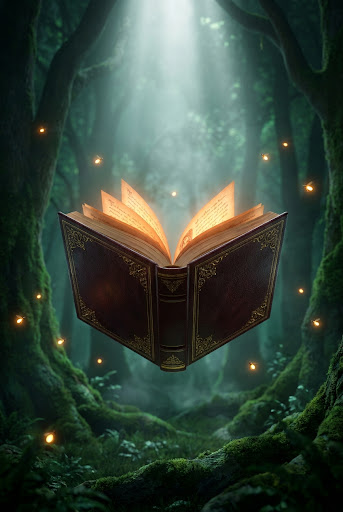
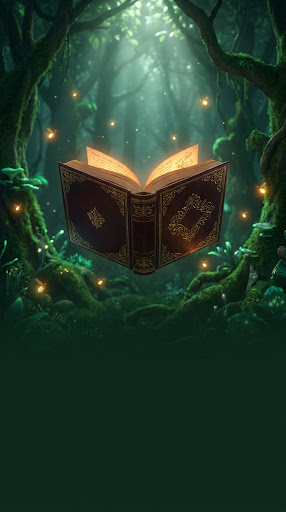
auto-sync 2026-05-16 07:54

diff --git a/app/page.tsx b/app/page.tsx
@@ -686,24 +686,95 @@ function LibraryScreen({saved,onOpen,onDelete}:{saved:SavedStory[];onOpen:(s:Sav
 }
 
 // ── Loading screen ────────────────────────────────────────────────────────────
-function LoadingScreen() {
+function LoadingScreen({ childName }: { childName?: string }) {
+  const [progress, setProgress] = useState(0)
+
+  useEffect(() => {
+    const totalMs = 28000, stepMs = 150
+    let elapsed = 0
+    const timer = setInterval(() => {
+      elapsed += stepMs
+      const t = Math.min(elapsed / totalMs, 1)
+      const eased = t < 0.5 ? 2*t*t : 1 - Math.pow(-2*t+2, 2)/2
+      setProgress(Math.min(Math.round(eased * 90), 90))
+      if (t >= 1) clearInterval(timer)
+    }, stepMs)
+    return () => clearInterval(timer)
+  }, [])
+
+  const activeStep = progress < 33 ? 0 : progress < 66 ? 1 : 2
+  const steps = ['Придумываем героя', 'Плетём сюжет', 'Рисуем картинки']
+  const fireflies = [
+    {top:'10%',left:'7%', w:3,delay:'0s',  dur:'9s' },
+    {top:'22%',left:'83%',w:4,delay:'1.5s',dur:'11s'},
+    {top:'38%',left:'15%',w:3,delay:'3s',  dur:'8s' },
+    {top:'30%',left:'70%',w:3,delay:'0.8s',dur:'13s'},
+    {top:'15%',left:'52%',w:2,delay:'2.2s',dur:'10s'},
+    {top:'60%',left:'88%',w:3,delay:'4s',  dur:'12s'},
+    {top:'73%',left:'28%',w:2,delay:'1.2s',dur:'9s' },
+    {top:'82%',left:'62%',w:3,delay:'5s',  dur:'10s'},
+  ]
+
   return (
-    <div className="max-w-2xl mx-auto px-4 py-16 pb-28 md:pb-16">
-      <div className="bg-white rounded-3xl p-16 text-center card-shadow">
-        <div className="relative inline-block mb-8">
-          <div className="w-24 h-24 rounded-full mx-auto flex items-center justify-center float-anim" style={{background:'var(--primary-light)'}}>
-            <span className="text-5xl">🪄</span>
-          </div>
-          <div className="absolute -top-2 -right-2 text-2xl twinkle">✨</div>
-          <div className="absolute -bottom-2 -left-2 text-xl twinkle" style={{animationDelay:'0.7s'}}>⭐</div>
-        </div>
-        <h2 className="font-serif text-2xl font-bold mb-2" style={{color:'var(--primary)'}}>Создаём сказку...</h2>
-        <p className="text-sm font-medium" style={{color:'var(--text-muted)'}}>Волшебство занимает около минуты</p>
-        <div className="mt-8 flex justify-center gap-2">
-          {[0,1,2].map(i=>(
-            <div key={i} className="w-2.5 h-2.5 rounded-full animate-pulse" style={{background:'var(--primary)',opacity:0.5,animationDelay:`${i*0.2}s`}}/>
+    <div className="fixed inset-0 z-50 flex flex-col overflow-hidden" style={{background:'#0d2b1e'}}>
+      {fireflies.map((f,i)=>(
+        <div key={i} className="loading-firefly" style={{top:f.top,left:f.left,width:f.w,height:f.w,animationDelay:f.delay,animationDuration:f.dur}}/>
+      ))}
+
+      {/* Forest + book hero — top half */}
+      <div className="relative flex-none" style={{height:'50vh'}}>
+        {/* eslint-disable-next-line @next/next/no-img-element */}
+        <img src="/loading-forest.jpg" alt="" aria-hidden
+          className="absolute inset-0 w-full h-full object-cover object-center"/>
+        <div className="absolute inset-0" style={{background:'linear-gradient(to bottom,transparent 62%,#0d2b1e 100%)'}}/>
+      </div>
+
+      {/* Content — bottom half, evenly spaced */}
+      <div className="flex-1 flex flex-col justify-between items-center text-center px-6 py-8">
+        <h1 style={{fontFamily:'Literata,Georgia,serif',fontSize:28,fontWeight:700,color:'#f9f9f7',lineHeight:1.2}}>
+          Сказка создаётся...
+        </h1>
+
+        <p style={{fontFamily:'"Plus Jakarta Sans",sans-serif',fontSize:14,fontStyle:'italic',color:'#82a48f'}}>
+          {childName ? `${childName} уже ждёт своей истории` : 'Твой герой уже ждёт своей истории'}
+        </p>
+
+        <div className="flex justify-center gap-2 w-full">
+          {steps.map((s,i)=>(
+            <div key={i} className="rounded-full flex items-center justify-center"
+              style={{
+                padding:'6px 10px',
+                background: i===activeStep ? '#e7c365' : 'rgba(255,255,255,0.06)',
+                border: i===activeStep ? 'none' : '1px solid rgba(255,255,255,0.15)',
+                boxShadow: i===activeStep ? '0 0 12px rgba(231,195,101,0.45)' : 'none',
+                transition:'all 0.6s ease',
+              }}>
+              <span style={{fontFamily:'"Plus Jakarta Sans",sans-serif',fontSize:11,fontWeight:600,
+                color:i===activeStep?'#2c1700':'rgba(255,255,255,0.35)',whiteSpace:'nowrap'}}>
+                {s}
+              </span>
+            </div>
           ))}
         </div>
+
+        <div style={{width:'100%',maxWidth:280}}>
+          <div className="relative w-full rounded-full" style={{height:7,background:'rgba(255,255,255,0.08)'}}>
+            <div className="absolute top-0 left-0 h-full rounded-full"
+              style={{width:`${progress}%`,background:'linear-gradient(90deg,#C4704A,#e7c365)',transition:'width 0.25s ease'}}>
+              {progress>2&&(
+                <div className="absolute rounded-full" style={{
+                  right:-6,top:'50%',transform:'translateY(-50%)',
+                  width:13,height:13,background:'#e7c365',
+                  boxShadow:'0 0 10px rgba(231,195,101,0.9),0 0 20px rgba(231,195,101,0.5)',
+                }}/>
+              )}
+            </div>
+          </div>
+        </div>
+
+        <p style={{fontFamily:'"Plus Jakarta Sans",sans-serif',fontSize:12,color:'rgba(255,255,255,0.25)',textTransform:'uppercase',letterSpacing:'0.08em'}}>
+          Это занимает около 30 секунд
+        </p>
       </div>
     </div>
   )
@@ -796,7 +867,7 @@ export default function Home() {
 
   const generate = async(data:FormData)=>{
     if(!canGenerate()){setShowPaywall(true);return}
-    setStatus('loading'); setError(''); setAlreadySaved(false)
+    setStatus('loading'); setError(''); setAlreadySaved(false); setCurrentChildName(data.childName)
     try{
       const res=await fetch('/api/generate',{method:'POST',headers:{'Content-Type':'application/json'},body:JSON.stringify(data)})
       const json=await res.json()
@@ -909,7 +980,7 @@ export default function Home() {
         </>
       )}
 
-      {status==='loading'&&<LoadingScreen/>}
+      {status==='loading'&&<LoadingScreen childName={currentChildName}/>}
 
       {(status==='done'||status==='reading')&&story&&(
         <>

diff --git a/app/globals.css b/app/globals.css
@@ -340,6 +340,21 @@ body {
 .float-anim { animation:float 4s ease-in-out infinite; }
 .twinkle    { animation:twinkle 2s ease-in-out infinite; }
 
+/* ── Loading screen fireflies ───────────────────────── */
+@keyframes firefly-float {
+  0%   { transform:translate(0,0) scale(1); opacity:0; }
+  20%  { opacity:0.9; }
+  50%  { transform:translate(14px,-22px) scale(1.4); opacity:0.6; }
+  80%  { opacity:0.9; }
+  100% { transform:translate(-8px,-38px) scale(0.8); opacity:0; }
+}
+.loading-firefly {
+  position:absolute; border-radius:50%; background:#FFD58A;
+  box-shadow:0 0 8px 3px rgba(255,213,138,0.55);
+  animation:firefly-float 10s ease-in-out infinite alternate;
+  pointer-events:none; z-index:2;
+}
+
 /* ── Print ──────────────────────────────────────────── */
 @media print {
   body { background:white !important; }
